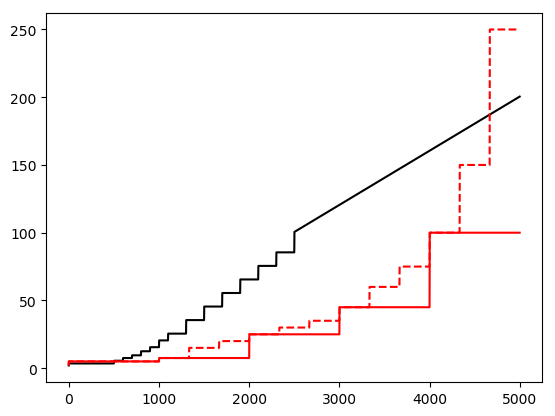
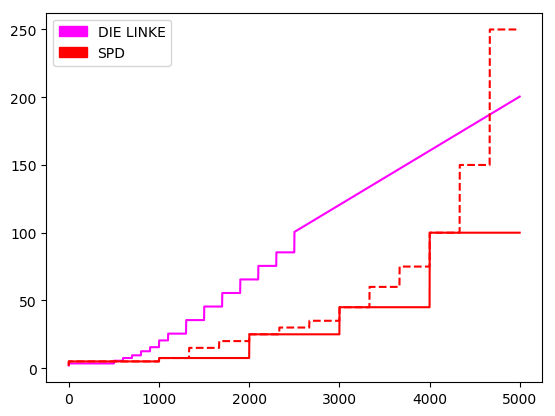
added legend to plot

diff --git a/parteien_beitrags_verleich.py b/parteien_beitrags_verleich.py
@@ -1,7 +1,7 @@
 #!/usr/bin/python3
 
 import numpy
-from matplotlib import pyplot
+from matplotlib import pyplot, patches
 
 def die_linke(einkommen):
     beitrag = []
@@ -97,10 +97,14 @@ def spd_2(einkommen):
 def make_graph():
     # einkommen = [e for e in range(2500)]
     einkommen = numpy.arange(0, 5000, 1)
+    color_die_linke = '#ff00ff'
+    color_spd = '#ff0000'
     pyplot.figure()
-    pyplot.plot(einkommen, die_linke(einkommen), 'k',
-                einkommen, spd_2(einkommen), 'r--',
-                einkommen, spd(einkommen), 'r')
+    pyplot.plot(einkommen, die_linke(einkommen), color_die_linke, label='DIE LINKE')
+    pyplot.plot(einkommen, spd_2(einkommen), color=color_spd, linestyle='dashed')
+    pyplot.plot(einkommen, spd(einkommen), color_spd, label='SPD')
+    pyplot.legend(handles=[patches.Patch(color=color_die_linke, label='DIE LINKE'),
+                           patches.Patch(color=color_spd, label='SPD')])
     # pyplot.show()
     pyplot.savefig('parteienbeitrag.png', bbox_inches='tight')
 
